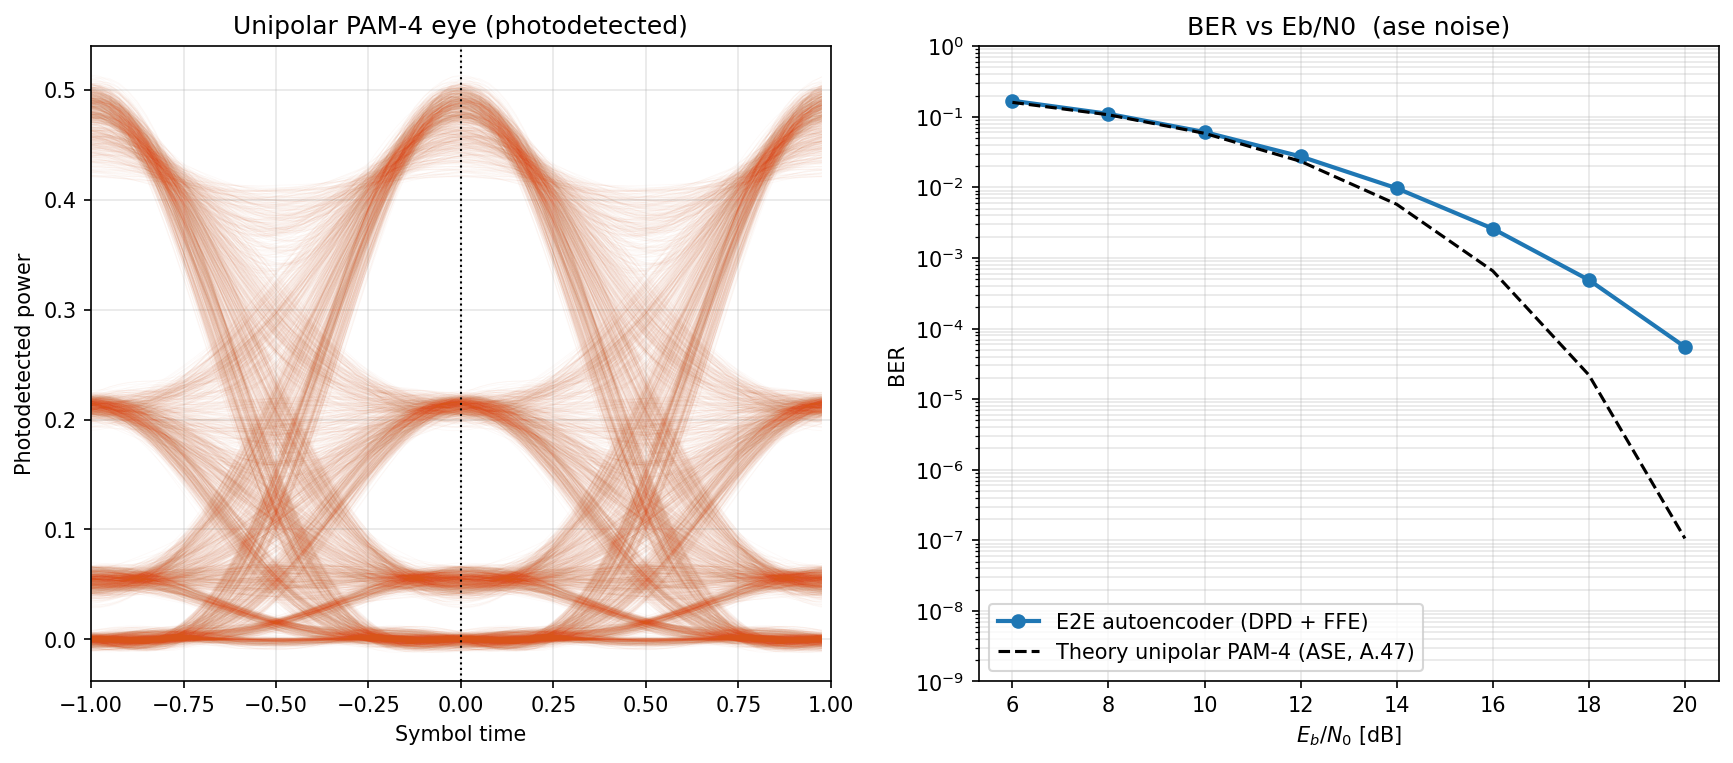
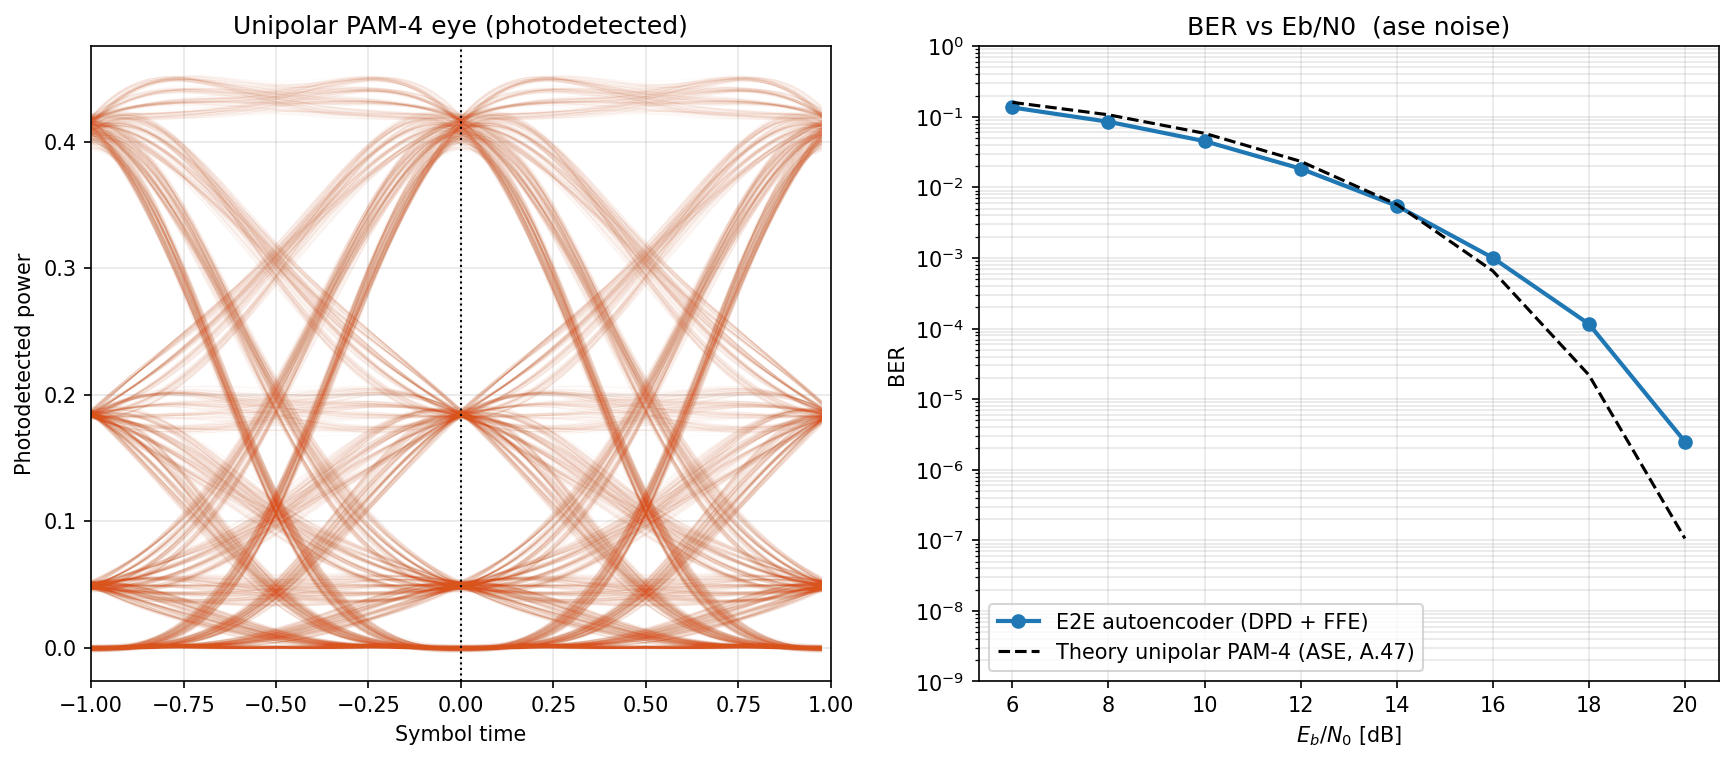
Strategy 1: matched optical filter -> ASE ~= thermal
Spectral analysis (new spectral_analysis.py + results/pam4_spectral.png) showed the optical
filter B_o=37 GHz was well placed (cuts 54% of the ASE without clipping the signal), so the
remaining gap was NOT the bandwidth. A B_o sweep confirmed only ~0.5 dB headroom (optimum
~30 GHz brick-wall). The real lever was the filter SHAPE: replacing the brick-wall optical
filter with one MATCHED to the pulse (RRC) -- the filter A.47 actually assumes -- gives ~2.5 dB
in the ASE regime.

optical_filter_type ("auto"): matched for ase (preamplified-RX optimum) and brickwall for
thermal (matched would attenuate the signal and hurt the additive-noise case -- verified, ~14x
worse). Dual to the sqrt companding. Stored in / restored from the checkpoint (like companding)
so the rebuilt channel always matches the trained weights.

Result: ASE now ~= thermal -- identical 6-16 dB, ~0.7 dB at 20 dB (2.5e-6 vs 2.5e-6 measured;
was ~4000x off). The ASE E2E now hugs A.47.

Also verified (Strategy 2): block-edge filter memory does NOT bias the BER (flat vs edge_guard,
edge symbols have the average error rate) -- the 400k-symbol measurement was already clean.

diff --git a/spectral_analysis.py b/spectral_analysis.py
@@ -1,0 +1,143 @@
+"""Point-by-point spectral analysis of the ASE link, to reason about the filter bandwidths.
+Drives the channel with the trained DPD (results/pam4_ase.pt), captures the signal/ASE PSDs at
+each stage and overlays the filter responses, in the optical domain (complex field, before the
+photodiode) and the electrical domain (real photocurrent, after it). Prints the key numbers and
+saves results/pam4_spectral.png. Run from the MLforCPO2 folder.
+"""
+
+import os
+os.environ["KMP_DUPLICATE_LIB_OK"] = "TRUE"
+
+import numpy as np
+import torch
+import matplotlib
+matplotlib.use("Agg")
+import matplotlib.pyplot as plt
+from scipy.signal import welch
+
+from pulse_shaping import root_raised_cosine
+from config import Config
+from transmitter import Transmitter
+from channel import OpticalChannel
+from train import random_bits
+
+EBN0_DB = 16.0
+CHECKPOINT = os.path.join("results", "pam4_ase.pt")
+
+
+def psd(signal, sample_rate, onesided):
+    freq, power = welch(signal, sample_rate, nperseg=8192, return_onesided=onesided, detrend="constant")
+    if not onesided:
+        freq, power = np.fft.fftshift(freq), np.fft.fftshift(power)
+    return freq / 1e9, power
+
+
+def filter_mag_db(taps, sample_rate):
+    n = 8192
+    transfer = np.fft.fftshift(np.fft.fft(taps, n))
+    freq = np.fft.fftshift(np.fft.fftfreq(n, 1 / sample_rate)) / 1e9
+    return freq, 20 * np.log10(np.abs(transfer) + 1e-12)
+
+
+def main():
+    device = "cuda" if torch.cuda.is_available() else "cpu"
+    ckpt = torch.load(CHECKPOINT, weights_only=False, map_location=device)
+    config = Config()
+    config.noise_regime = "ase"
+    config.rx_sqrt_companding = ckpt.get("rx_sqrt_companding")     # restore the build-time choice
+    transmitter = Transmitter(config).to(device)
+    transmitter.load_state_dict(ckpt["transmitter"])
+    transmitter.eval()
+    channel = OpticalChannel(config).to(device)
+    sample_rate = config.sim_sample_rate
+
+    # ----- run the trained signal through the channel, capturing each stage -----
+    torch.manual_seed(1)
+    bits = random_bits(config.bits_per_symbol, 60000, device)
+    with torch.no_grad():
+        drive = transmitter(bits)
+        combined = channel.segment_filter(drive.unsqueeze(0)).sum(dim=1, keepdim=True) / channel.num_segments
+        phase = (np.pi / (2 * channel.vpi)) * (combined - channel.bias_volt)
+        field_real = 0.5 * (1 + channel.gamma) * torch.cos(phase) * channel.field_loss
+        field_imag = 0.5 * (1 - channel.gamma) * torch.sin(phase) * channel.field_loss
+        field_real, field_imag = channel._apply_dispersion(field_real, field_imag)
+        mean_power = (field_real.pow(2) + field_imag.pow(2)).mean()
+        std = torch.sqrt(mean_power * (config.samples_per_symbol_sim / config.bits_per_symbol)
+                         / (2 * 10 ** (EBN0_DB / 10)))
+        noise_real, noise_imag = std * torch.randn_like(field_real), std * torch.randn_like(field_imag)
+        photocurrent = (channel.optical_filter(field_real + noise_real).pow(2)
+                        + channel.optical_filter(field_imag + noise_imag).pow(2))
+        photocurrent_pd = channel.pd_filter(photocurrent)
+
+    signal_field = (field_real + 1j * field_imag).squeeze().cpu().numpy()
+    ase_field = (noise_real + 1j * noise_imag).squeeze().cpu().numpy()
+    photocurrent_np = photocurrent.squeeze().cpu().numpy()
+    photocurrent_pd_np = photocurrent_pd.squeeze().cpu().numpy()
+
+    f_sig, p_sig = psd(signal_field, sample_rate, False)
+    f_ase, p_ase = psd(ase_field, sample_rate, False)
+    f_pc, p_pc = psd(photocurrent_np, sample_rate, True)
+    f_pcpd, p_pcpd = psd(photocurrent_pd_np, sample_rate, True)
+
+    # ----- key numbers -----
+    cutoff = config.optical_filter_bandwidth / 2e9
+    sig_peak = np.median(p_sig[np.abs(f_sig) < 8])
+    sig_at_edge = np.interp(cutoff, f_sig[f_sig >= 0], p_sig[f_sig >= 0])
+    ase_level = np.median(p_ase)
+    ase_kept = p_ase[np.abs(f_ase) <= cutoff].sum() / p_ase.sum()
+    sig_db = 10 * np.log10(p_sig[f_sig >= 0] / sig_peak)
+    bw10 = f_sig[f_sig >= 0][np.where(sig_db > -10)[0][-1]]
+    print(f"symbol rate                       : {config.symbol_rate/1e9:.0f} GBaud "
+          f"(RRC one-sided band ~ {config.symbol_rate*(1+config.rrc_rolloff)/2e9:.1f} GHz)")
+    print(f"optical filter cutoff (B_o/2)     : {cutoff:.1f} GHz")
+    print(f"signal -10 dB one-sided bandwidth : {bw10:.1f} GHz")
+    print(f"signal at the optical cutoff      : {10*np.log10(sig_at_edge/sig_peak):+.1f} dB re peak")
+    print(f"signal-to-ASE PSD ratio (in band) : {10*np.log10(sig_peak/ase_level):+.1f} dB")
+    print(f"ASE power kept by optical filter  : {100*ase_kept:.0f}% (cut {100*(1-ase_kept):.0f}%)")
+    print(f"photodiode cutoff                 : {config.photodiode_bandwidth/1e9:.0f} GHz")
+
+    # ----- figure -----
+    opt_taps = channel.optical_filter.weight.detach().cpu().numpy().flatten()[::-1]
+    pd_taps = channel.pd_filter.weight.detach().cpu().numpy().flatten()[::-1]
+    rrc_taps = root_raised_cosine(config.rrc_rolloff, config.rrc_span_symbols, config.samples_per_symbol_sim)
+    f_opt, h_opt = filter_mag_db(opt_taps, sample_rate)
+    f_pdf, h_pd = filter_mag_db(pd_taps, sample_rate)
+    f_rrc, h_rrc = filter_mag_db(rrc_taps, sample_rate)
+
+    ref = 10 * np.log10(sig_peak)
+    fig, (ax_opt, ax_elec) = plt.subplots(1, 2, figsize=(15, 5.6))
+    ax_opt.plot(f_sig, 10 * np.log10(p_sig) - ref, color="C0", lw=1.6, label="optical signal field", zorder=3)
+    ax_opt.plot(f_ase, 10 * np.log10(p_ase) - ref, color="C3", lw=1.4, label="ASE (input, white)", zorder=2)
+    ax_opt.plot(f_opt, h_opt, color="k", lw=1.4, ls="--",
+                label=f"optical filter |H| ({channel.optical_filter_type})", zorder=4)
+    ax_opt.axvspan(-cutoff, cutoff, color="C2", alpha=0.07)
+    ax_opt.set_xlim(-40, 40)
+    ax_opt.set_ylim(-50, 5)
+    ax_opt.set_xlabel("frequency [GHz]  (0 = optical carrier)")
+    ax_opt.set_ylabel("PSD / |H| [dB] (re signal peak)")
+    ax_opt.set_title("Optical domain — complex field, before the PD")
+    ax_opt.grid(alpha=0.3)
+    ax_opt.legend(loc="lower center", fontsize=8)
+
+    ref_pc = 10 * np.log10(np.median(p_pc[f_pc < 3]))
+    ax_elec.plot(f_pc, 10 * np.log10(p_pc) - ref_pc, color="C0", lw=1.6, label="photocurrent (signal+beat)", zorder=3)
+    ax_elec.plot(f_pcpd, 10 * np.log10(p_pcpd) - ref_pc, color="C2", lw=1.4, label="after PD low-pass", zorder=2)
+    ax_elec.plot(f_pdf, h_pd, color="C1", lw=1.4, ls="--", label=f"PD |H| ({config.photodiode_bandwidth/1e9:.0f} GHz)", zorder=4)
+    ax_elec.plot(f_rrc, h_rrc - h_rrc.max(), color="k", lw=1.4, ls=":", label="RRC matched |H|", zorder=4)
+    ax_elec.set_xlim(0, 40)
+    ax_elec.set_ylim(-50, 5)
+    ax_elec.set_xlabel("frequency [GHz]")
+    ax_elec.set_ylabel("PSD / |H| [dB]")
+    ax_elec.set_title("Electrical domain — photocurrent, after the PD")
+    ax_elec.grid(alpha=0.3)
+    ax_elec.legend(loc="lower center", fontsize=8)
+
+    fig.suptitle(f"ASE link spectral analysis @ Eb/N0 = {EBN0_DB:.0f} dB")
+    fig.tight_layout()
+    out_path = os.path.join("results", "pam4_spectral.png")
+    fig.savefig(out_path, dpi=150, bbox_inches="tight")
+    print(f"saved {out_path}")
+
+
+if __name__ == "__main__":
+    main()

diff --git a/channel.py b/channel.py
@@ -26,6 +26,8 @@ import torch
 import torch.nn as nn
 import torch.nn.functional as F
 
+from pulse_shaping import root_raised_cosine
+
 
 def lowpass_fir(cutoff_hz, sample_rate, num_taps):
     """Unit-DC-gain windowed-sinc low-pass FIR (odd length)."""
@@ -77,9 +79,19 @@ class OpticalChannel(nn.Module):
         # cutoff B_o/2 on the field -> the same real FIR applied to each quadrature. It suppresses
         # out-of-band ASE before the square law (cuts mainly the ASE-ASE beat). None = no filter.
         optical_bw = getattr(config, "optical_filter_bandwidth", None)
+        optical_type = getattr(config, "optical_filter_type", "auto")
+        if optical_type == "auto":               # matched for ase (preamp RX, A.47), brickwall for thermal
+            optical_type = "matched" if config.noise_regime == "ase" else "brickwall"
+        self.optical_filter_type = optical_type
         if optical_bw is not None and optical_bw < config.sim_sample_rate:
-            optical_taps = lowpass_fir(optical_bw / 2, config.sim_sample_rate, optical_filter_taps)
-            optical_weight = torch.tensor(optical_taps).flip(0).view(1, 1, -1)
+            if optical_type == "matched":
+                # optical filter matched to the signal pulse (RRC), unit-DC-gain -> A.47 optimum
+                rrc = root_raised_cosine(config.rrc_rolloff, config.rrc_span_symbols, config.samples_per_symbol_sim)
+                optical_taps = (rrc / rrc.sum()).astype(np.float32)
+            else:
+                # brick-wall: windowed-sinc low-pass at B_o/2
+                optical_taps = lowpass_fir(optical_bw / 2, config.sim_sample_rate, optical_filter_taps)
+            optical_weight = torch.tensor(optical_taps[::-1].copy()).view(1, 1, -1)
             self.optical_filter = nn.Conv1d(1, 1, kernel_size=len(optical_taps),
                                             padding=len(optical_taps) // 2, bias=False)
             self.optical_filter.weight = nn.Parameter(optical_weight)

diff --git a/config.py b/config.py
@@ -44,6 +44,10 @@ class Config:
         # cutoff B_o/2 on the field (suppresses out-of-band ASE before the square law).
         # 37 GHz ~= R_s*(1+rolloff), matched to the signal optical band. None disables it.
         self.optical_filter_bandwidth = 37e9
+        self.optical_filter_type = "auto"       # AUTO: "matched" for ase (RRC matched to the pulse,
+                                                # A.47 optimum, ~2.5 dB -> ASE ~= thermal) and "brickwall"
+                                                # for thermal (matched would attenuate the signal and hurt
+                                                # the additive-noise case). Force with "matched"/"brickwall".
 
         # ----- photodiode -----
         self.photodiode_bandwidth = 25e9        # post-detection low-pass bandwidth
@@ -111,7 +115,13 @@ class Config:
         lines.append(f"MZM segments         : {self.num_mzm_segments}")
         lines.append(f"pulse shape          : RRC roll-off {self.rrc_rolloff}")
         lines.append(f"noise regime         : {self.noise_regime}")
-        lines.append(f"optical filter Bo    : {self.optical_filter_bandwidth/1e9:.0f} GHz" if self.optical_filter_bandwidth else "optical filter Bo    : none")
+        optical_type = self.optical_filter_type
+        if optical_type == "auto":
+            optical_type = "matched" if self.noise_regime == "ase" else "brickwall"
+        if self.optical_filter_bandwidth:
+            lines.append(f"optical filter       : {optical_type}, Bo {self.optical_filter_bandwidth/1e9:.0f} GHz")
+        else:
+            lines.append("optical filter       : none")
         companding = self.rx_sqrt_companding if self.rx_sqrt_companding is not None else (self.noise_regime == "ase")
         lines.append(f"rx sqrt companding   : {companding}")
         return "\n".join(lines)

diff --git a/compare_regimes.py b/compare_regimes.py
@@ -48,6 +48,7 @@ def load_or_train(regime, device):
     torch.save({"transmitter": transmitter.state_dict(), "receiver": receiver.state_dict(),
                 "config": {k: v for k, v in vars(config).items()},
                 "rx_sqrt_companding": bool(receiver.sqrt_companding),
+                "optical_filter_type": channel.optical_filter_type,
                 "ebn0_db": EBN0_DB, "measured": measured}, path)
     print(f"[{regime}] saved {path}")
     return config, EBN0_DB, measured

diff --git a/main.py b/main.py
@@ -100,6 +100,7 @@ def main():
         "receiver": receiver.state_dict(),
         "config": {k: v for k, v in vars(config).items()},
         "rx_sqrt_companding": bool(receiver.sqrt_companding),
+        "optical_filter_type": channel.optical_filter_type,
         "ebn0_db": ebn0_db,
         "measured": measured,
     }
